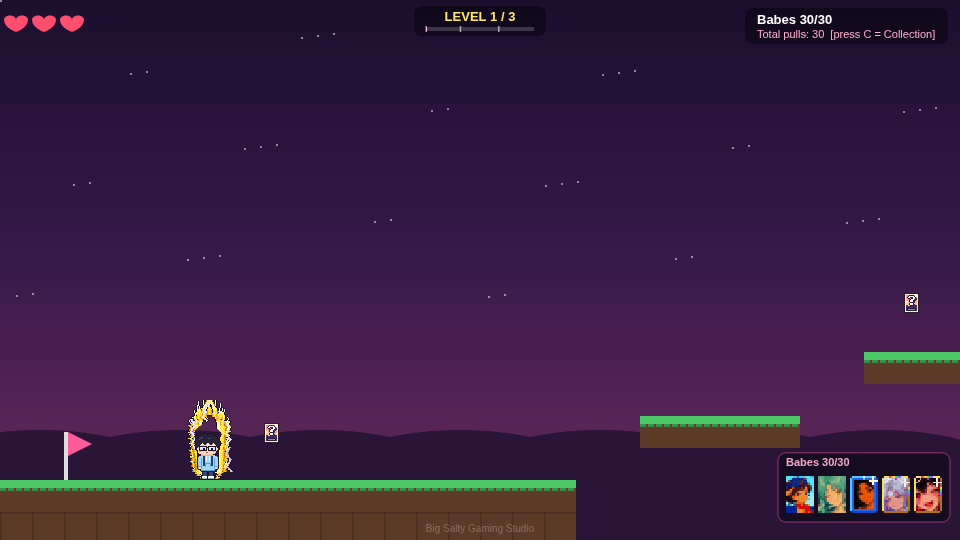
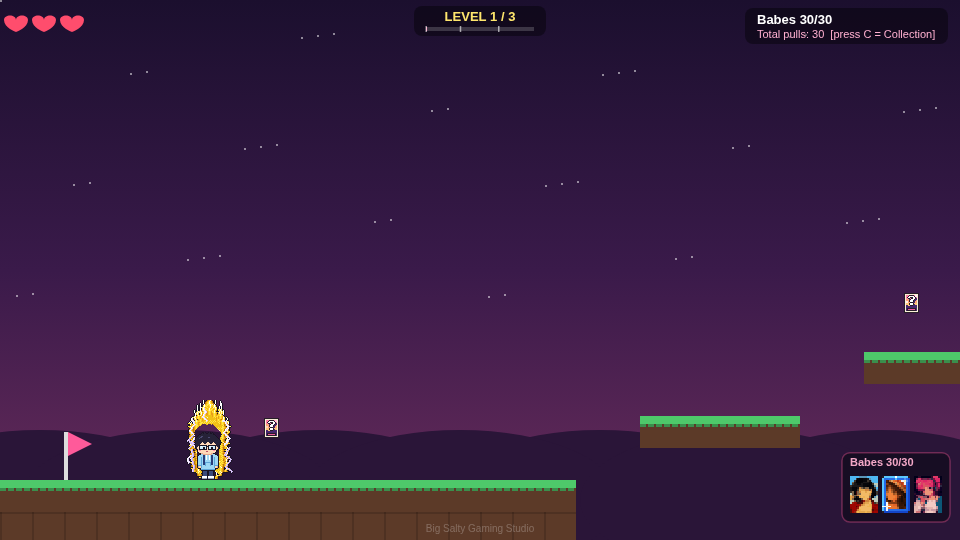
Tray opens Collection on click; refresh all-30 aura art
Babe tray (bottom-right) click/tap opens the gallery like C during play,
and ignores blocking overlays. Ship Iris's yellow-interior aura frames
with a ?v=2 cache-bust so Pages picks up the new PNGs.

Changed region(s): [[0.8125, 0.8296, 1.0, 0.9778], [0.1875, 0.7407, 0.3125, 0.8889]]

diff --git a/index.html b/index.html
@@ -323,7 +323,7 @@ const AURA_FRAMES = [];
 for (let i = 0; i < 6; i++) {
   const im = new Image();
   im.onerror = () => console.warn("[HBC] aura frame failed: aura_fire_" + i);
-  im.src = "art/vfx/aura/aura_fire_" + i + ".png";
+  im.src = "art/vfx/aura/aura_fire_" + i + ".png?v=2";
   AURA_FRAMES.push(im);
 }
 function hasAllBabesAura() {
@@ -919,6 +919,7 @@ function handleCanvasTap(sx, sy) {
   if (resetConfirm) return; // Reset/Cancel handled by the capture listener
   if (congrats) return; // only its Continue button closes it (handled in the pointerdown listener)
   if (performance.now() - congratsClosedAt < 300) return; // the dismissing tap does nothing else
+  if (tryTrayOpenCollection(sx, sy)) return;
   if (state === "title") {
     if (!heroSprites.ready && !heroSprites.failed) return;
     startLevel(progress.level);
@@ -981,6 +982,7 @@ canvas.addEventListener("mousedown", e => {
   if (e.button !== 0) return;
   const { x, y } = canvasCoords(e.clientX, e.clientY);
   if (state === "collection") handleGalleryClick(x, y);
+  else if (tryTrayOpenCollection(x, y)) { ensureAudio(); }
   else if (state === "title" || state === "win") handleCanvasTap(x, y);
 });
 
@@ -1924,6 +1926,20 @@ let winStats = null;
 let runGained = [];   // babe ids gained this run (for win screen)
 let collectionReturn = "play";
 function openCollection() { collectionReturn = state === "win" ? "win" : "play"; state = "collection"; }
+let hudTrayHit = null; // {x,y,w,h} canvas-space panel from last drawHudLiveBabes
+function trayContains(sx, sy) {
+  const r = hudTrayHit;
+  return !!(r && sx >= r.x && sx <= r.x + r.w && sy >= r.y && sy <= r.y + r.h);
+}
+/** Click/tap the babe tray → same as C (open gallery). Ignores blocking overlays; only in play. */
+function tryTrayOpenCollection(sx, sy) {
+  if (resetConfirm || congrats) return false;
+  if (performance.now() - congratsClosedAt < 300) return false;
+  if (state !== "play") return false; // match C; death Ouch / win ignore tray
+  if (!trayContains(sx, sy)) return false;
+  openCollection();
+  return true;
+}
 let gallery = {
   filter: "all", // all | owned | missing | common | rare | ultra
   scroll: 0,
@@ -3399,7 +3415,7 @@ function drawWorld() {
 
 // Bottom-right mini tray: only owned babes, newest acquisition on the right, at most 5.
 function drawHudLiveBabes() {
-  if (state !== "play" && state !== "dead" && state !== "dying") return;
+  if (state !== "play" && state !== "dead" && state !== "dying") { hudTrayHit = null; return; }
   const lostId = state === "dead" && loseAnim ? loseAnim.lostId : null;
   // newest-first, owned (keep a just-lost babe visible during the Ouch screen for her X)
   const recent = recentBabes.filter(id => (collection[id] || 0) > 0 || id === lostId).slice(0, HUD_SLOTS);
@@ -3420,6 +3436,7 @@ function drawHudLiveBabes() {
   const panelX = W - panelW - margin;
   const panelY = H - panelH - lift - (n ? 0 : ch + pad);
   const step = cw + gap;
+  hudTrayHit = { x: panelX, y: panelY, w: panelW, h: panelH };
 
   ctx.save();
   ctx.globalAlpha = 0.78;
@@ -4662,6 +4679,7 @@ window.__HBC = {
   getBabePool: () => BABE_POOL,
   getRunGained: () => runGained,
   getHudTray: () => hudTray,
+  getHudTrayHit: () => hudTrayHit && { ...hudTrayHit },
   focusHudOnBabe: (id) => focusHudOnBabe(id),
 };
 </script>
